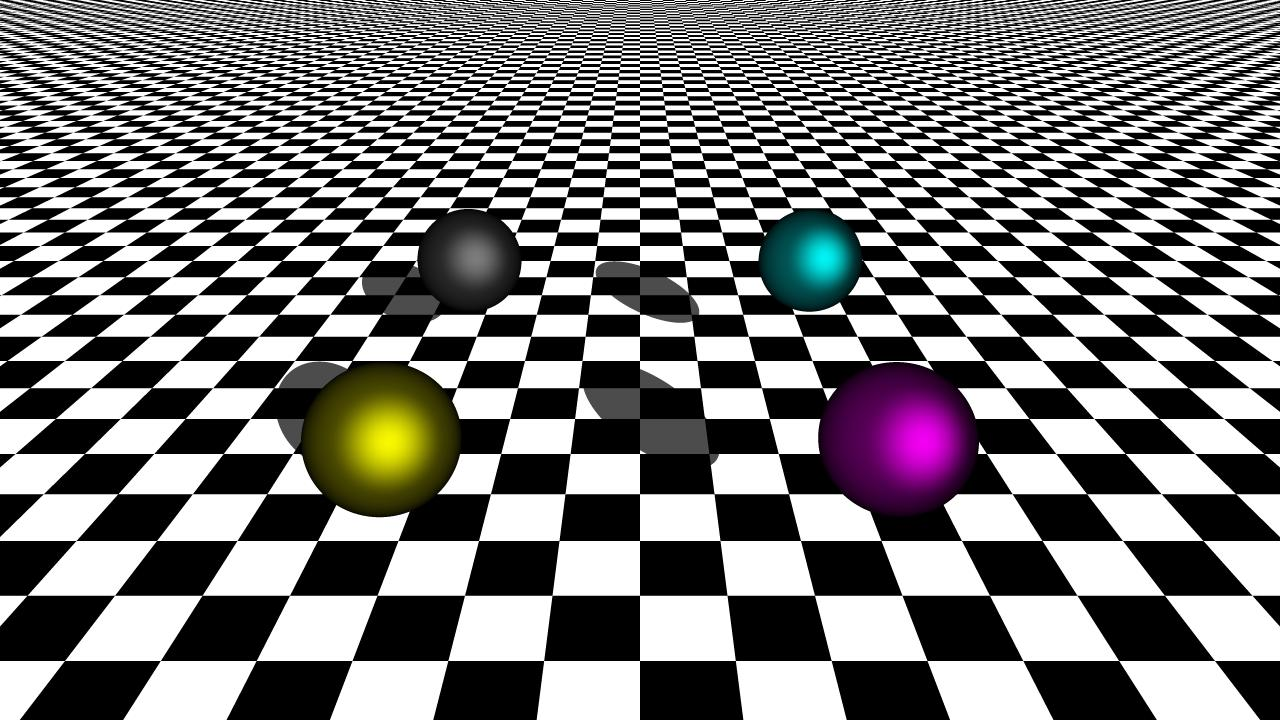
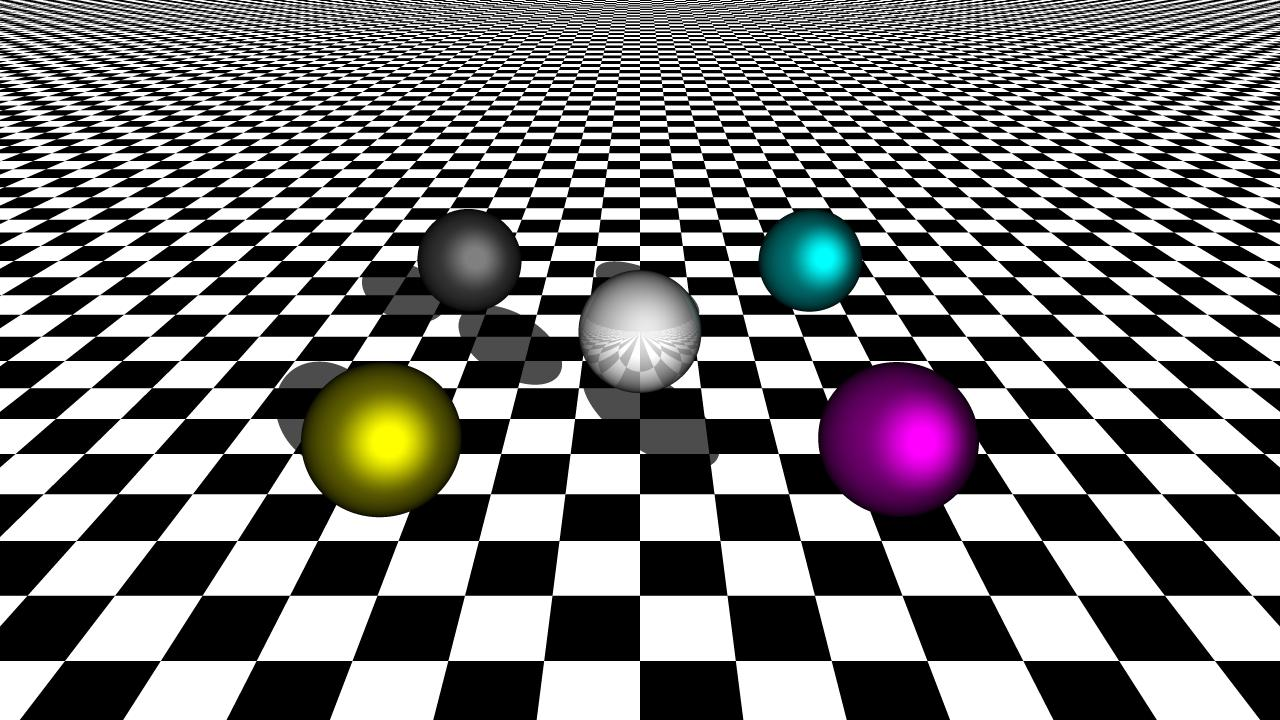
add a simple specular material

diff --git a/object/Sphere.go b/object/Sphere.go
@@ -1,20 +1,20 @@
 package object
 
 import (
-	geo "GoTracing/geometry"
 	"GoTracing/brdf"
+	geo "GoTracing/geometry"
 
 	"math"
 )
 
 type Sphere struct {
-	center geo.Point3D
-	radius float64
+	center   geo.Point3D
+	radius   float64
 	material brdf.BRDF
 }
 
 // if the endpoint of the ray is (a, b, c) and direction is (dx, dy, dz)
-// so it can be coconfirmed that (x-a)/dx = (y-b)/dy = (z-c)/dz = t,
+// so it can be confirmed that (x-a)/dx = (y-b)/dy = (z-c)/dz = t,
 // so if we get the result t, we can get the hit point.
 // and as (x-a)^2 + (y-b)^2 + (z-c)^2 = distance^2 which distance is the hit point between endpoint and dx^2 + dy^2 + dz^2 = 1.
 // so the t^2 = distance^2
@@ -23,30 +23,34 @@ func (s Sphere) Hit(ray geo.Ray) (bool, geo.Point3D) {
 	v := ray.Direction
 	radius := s.radius
 	center := s.center
-	b := 2 * ((p.X - center.X) * v.X + (p.Y - center.Y) * v.Y + (p.Z -center.Z) * v.Z)
-	c := (p.X - center.X) * (p.X - center.X) + (p.Y - center.Y) * (p.Y - center.Y) + (p.Z -center.Z) * (p.Z -center.Z) - radius * radius
-	delta := b * b - 4 * c
+	b := 2 * ((p.X-center.X)*v.X + (p.Y-center.Y)*v.Y + (p.Z-center.Z)*v.Z)
+	c := (p.X-center.X)*(p.X-center.X) + (p.Y-center.Y)*(p.Y-center.Y) + (p.Z-center.Z)*(p.Z-center.Z) - radius*radius
+	delta := b*b - 4*c
 	var isHit bool
 	var hitPoint geo.Point3D
 	if delta >= 0.0 {
 		isHit = true
-		resultA := - (b + math.Sqrt(delta)) / 2.0
-		resultB := - (b - math.Sqrt(delta)) / 2.0
+		resultA := -(b + math.Sqrt(delta)) / 2.0
+		resultB := -(b - math.Sqrt(delta)) / 2.0
 		var result float64
-		if resultA * resultA < resultB * resultB {
+		if resultA*resultA < resultB*resultB {
 			result = resultA
 		} else {
 			result = resultB
 		}
 
-		hitPoint = geo.Point3D {
-			X: result * v.X + p.X,
-			Y: result * v.Y + p.Y,
-			Z: result * v.Z + p.Z,
+		if result < 0.00001 {
+			isHit = false
+		}
+
+		hitPoint = geo.Point3D{
+			X: result*v.X + p.X,
+			Y: result*v.Y + p.Y,
+			Z: result*v.Z + p.Z,
 		}
 	} else {
 		isHit = false
-		hitPoint = geo.Point3D {}
+		hitPoint = geo.Point3D{}
 	}
 
 	return isHit, hitPoint
@@ -57,8 +61,8 @@ func (s Sphere) NormalVector(point geo.Point3D) geo.Vector3D {
 }
 
 func NewSphere(x float64, y float64, z float64, r float64) *Sphere {
-	sphere := &Sphere {
-		center: geo.Point3D {
+	sphere := &Sphere{
+		center: geo.Point3D{
 			X: x,
 			Y: y,
 			Z: z,

diff --git a/tracer/Tracer.go b/tracer/Tracer.go
@@ -7,6 +7,8 @@ import (
 	"image/color"
 )
 
+var BACKGOUND color.RGBA = color.RGBA{20, 20, 20, 255}
+
 func Tracing(objList list.List, ray geo.Ray) (bool, *obj.Object, *geo.Point3D) {
 	var min float64 = -1.0
 	var isHit bool = false
@@ -37,10 +39,11 @@ func Tracing(objList list.List, ray geo.Ray) (bool, *obj.Object, *geo.Point3D) {
 
 func GetColor(isHit bool, hitObject obj.Object, hitPoint geo.Point3D, ray geo.Ray, objList list.List) color.RGBA {
 	if isHit {
+		localNormal := hitObject.NormalVector(hitPoint)
 		vOut := ray.Direction.Opposite()
 
 		// temporary light direction
-		vIn := geo.Vector3D{
+		lightIn := geo.Vector3D{
 			X: 1,
 			Y: 1,
 			Z: 2,
@@ -48,15 +51,29 @@ func GetColor(isHit bool, hitObject obj.Object, hitPoint geo.Point3D, ray geo.Ra
 
 		lcoalRay := geo.Ray{
 			Endpoint:  hitPoint,
-			Direction: vIn,
+			Direction: lightIn,
 		}
 
 		// simple shadow, if the ray from object hit point to light hit some other objects, then the point is in shadow
 		var notHitLight bool = false
 		notHitLight, _, _ = Tracing(objList, lcoalRay)
 
-		return hitObject.GetMaterial().Shade(vIn, vOut, hitObject.NormalVector(hitPoint), hitPoint, !notHitLight)
+		// simple diffuse
+		diffuseIn := localNormal.Add(ray.Direction.Normalize())
+		diffuseRay := geo.Ray{
+			Endpoint:  hitPoint,
+			Direction: diffuseIn,
+		}
+		isDiffuse, diffuseObject, diffuseHitPoint := Tracing(objList, diffuseRay)
+		var diffuseColor color.RGBA
+		if isDiffuse {
+			diffuseColor = (*diffuseObject).GetMaterial().Shade(lightIn, diffuseIn, (*diffuseObject).NormalVector(*diffuseHitPoint), *diffuseHitPoint, true, BACKGOUND)
+		} else {
+			diffuseColor = BACKGOUND
+		}
+
+		return hitObject.GetMaterial().Shade(lightIn, vOut, localNormal, hitPoint, !notHitLight, diffuseColor)
 	} else {
-		return color.RGBA{20, 20, 20, 255}
+		return BACKGOUND
 	}
 }

diff --git a/brdf/SpecularPhong.go b/brdf/SpecularPhong.go
@@ -1,0 +1,79 @@
+package brdf
+
+import (
+	geo "GoTracing/geometry"
+
+	"image/color"
+	"math"
+)
+
+type SpecularPhong struct {
+	Ks    float64
+	Kd    float64
+	Cd    float64
+	Color color.RGBA
+}
+
+func (sp SpecularPhong) Shade(vIn geo.Vector3D, vOut geo.Vector3D, normal geo.Vector3D, hitPoint geo.Point3D, hitLight bool, diffuseColor color.RGBA) color.RGBA {
+
+	reflect := sp.ambient() * normal.Dot(vOut)
+	if hitLight {
+		reflect = reflect + sp.specular(hitPoint, normal, vOut, vIn)
+	}
+
+	if reflect > 1 {
+		reflect = 1
+	}
+
+	diffuse := sp.lambertion() * normal.Dot(vOut)
+
+	finalR := float64(sp.Color.R)*reflect + float64(diffuseColor.R)*diffuse
+	if finalR > 255 {
+		finalR = 255
+	}
+
+	finalG := float64(sp.Color.G)*reflect + float64(diffuseColor.G)*diffuse
+	if finalG > 255 {
+		finalG = 255
+	}
+
+	finalB := float64(sp.Color.B)*reflect + float64(diffuseColor.B)*diffuse
+	if finalB > 255 {
+		finalB = 255
+	}
+
+	return color.RGBA{
+		R: uint8(finalR),
+		G: uint8(finalG),
+		B: uint8(finalB),
+		A: 255,
+	}
+	// return diffuseColor
+
+}
+
+func (sp SpecularPhong) ambient() float64 {
+	return sp.Kd * sp.Cd
+}
+
+func (sp SpecularPhong) lambertion() float64 {
+	return sp.Kd * sp.Cd * invPi
+}
+
+func (sp SpecularPhong) specular(hitPoint geo.Point3D, normal geo.Vector3D, vOut geo.Vector3D, vIn geo.Vector3D) float64 {
+	var result float64 = 0.0
+	NorDotIn := normal.Dot(vIn)
+	r := geo.Vector3D{
+		X: -vIn.X + 2.0*NorDotIn*normal.X,
+		Y: -vIn.Y + 2.0*NorDotIn*normal.Y,
+		Z: -vIn.Z + 2.0*NorDotIn*normal.Z,
+	}
+
+	RDotOut := r.Dot(vOut)
+
+	if RDotOut > 0.0 {
+		result = sp.Ks * math.Pow(RDotOut, 2)
+	}
+
+	return result
+}

diff --git a/brdf/Phong.go b/brdf/Phong.go
@@ -16,19 +16,11 @@ type Phong struct {
 
 var invPi float64 = 0.3183098861837906715
 
-// func (p Phong) Shade(vIn geo.Vector3D, vOut geo.Vector3D, hitObject obj.Object, hitPoint geo.Point3D) color.RGBA {
-func (p Phong) Shade(vIn geo.Vector3D, vOut geo.Vector3D, normal geo.Vector3D, hitPoint geo.Point3D, hitLight bool) color.RGBA {
-	// normal := hitObject.NormalVector(hitPoint)
-	// vOut := hitPoint.Sub(*scene.ViewPoint).Normalize()
-	// vIn := geo.Vector3D {
-	// 	X: 1,
-	// 	Y: 1,
-	// 	Z: 1,
-	// }.Normalize()
+func (p Phong) Shade(vIn geo.Vector3D, vOut geo.Vector3D, normal geo.Vector3D, hitPoint geo.Point3D, hitLight bool, diffuseColor color.RGBA) color.RGBA {
 
-	reflect := p.specular(hitPoint, normal, vOut, vIn) + p.ambient()*normal.Dot(vOut)
+	reflect := p.lambertion()*normal.Dot(vOut) + p.ambient()*normal.Dot(vOut)
 	if hitLight {
-		reflect = reflect + p.lambertion()*normal.Dot(vOut)
+		reflect = reflect + p.specular(hitPoint, normal, vOut, vIn)
 	}
 
 	if reflect > 1 {

diff --git a/world/app.go b/world/app.go
@@ -105,10 +105,20 @@ func Build(s *Scene, sceneFile string) {
 	}
 	sphere4.SetMaterial(materail4)
 
+	sphere5 := obj.NewSphere(0, 40, 0, 75)
+	materail5 := brdf.SpecularPhong{
+		Ks:    0.1,
+		Kd:    0.9,
+		Cd:    0.9,
+		Color: color.RGBA{255, 255, 255, 255},
+	}
+	sphere5.SetMaterial(materail5)
+
 	s.ObjList.PushBack(sphere1)
 	s.ObjList.PushBack(sphere2)
 	s.ObjList.PushBack(sphere3)
 	s.ObjList.PushBack(sphere4)
+	s.ObjList.PushBack(sphere5)
 
 	plane1 := obj.Plane{
 		Normal: geo.Vector3D{

diff --git a/brdf/SV_Matte.go b/brdf/SV_Matte.go
@@ -13,7 +13,7 @@ type SV_Matte struct {
 	Size   int
 }
 
-func (sv SV_Matte) Shade(vIn geo.Vector3D, vOut geo.Vector3D, normal geo.Vector3D, hitPoint geo.Point3D, hitLight bool) color.RGBA {
+func (sv SV_Matte) Shade(vIn geo.Vector3D, vOut geo.Vector3D, normal geo.Vector3D, hitPoint geo.Point3D, hitLight bool, diffuseColor color.RGBA) color.RGBA {
 	x := hitPoint.X
 	// y := hitPoint.Y;
 	z := hitPoint.Z

diff --git a/brdf/Matte.go b/brdf/Matte.go
@@ -10,6 +10,6 @@ type Matte struct {
 	Color color.RGBA
 }
 
-func (matte Matte) Shade(vIn geo.Vector3D, vOut geo.Vector3D, normal geo.Vector3D, hitPoint geo.Point3D, hitLight bool) color.RGBA {
+func (matte Matte) Shade(vIn geo.Vector3D, vOut geo.Vector3D, normal geo.Vector3D, hitPoint geo.Point3D, hitLight bool, diffuseColor color.RGBA) color.RGBA {
 	return matte.Color
 }

diff --git a/brdf/api.go b/brdf/api.go
@@ -7,5 +7,5 @@ import (
 )
 
 type BRDF interface {
-	Shade(vIn geo.Vector3D, vOut geo.Vector3D, normal geo.Vector3D, hitPoint geo.Point3D, hitLight bool) color.RGBA
+	Shade(vIn geo.Vector3D, vOut geo.Vector3D, normal geo.Vector3D, hitPoint geo.Point3D, hitLight bool, diffuseColor color.RGBA) color.RGBA
 }

diff --git a/tracer/ShadeRec.go b/tracer/ShadeRec.go
@@ -1,0 +1,1 @@
+package tracer
